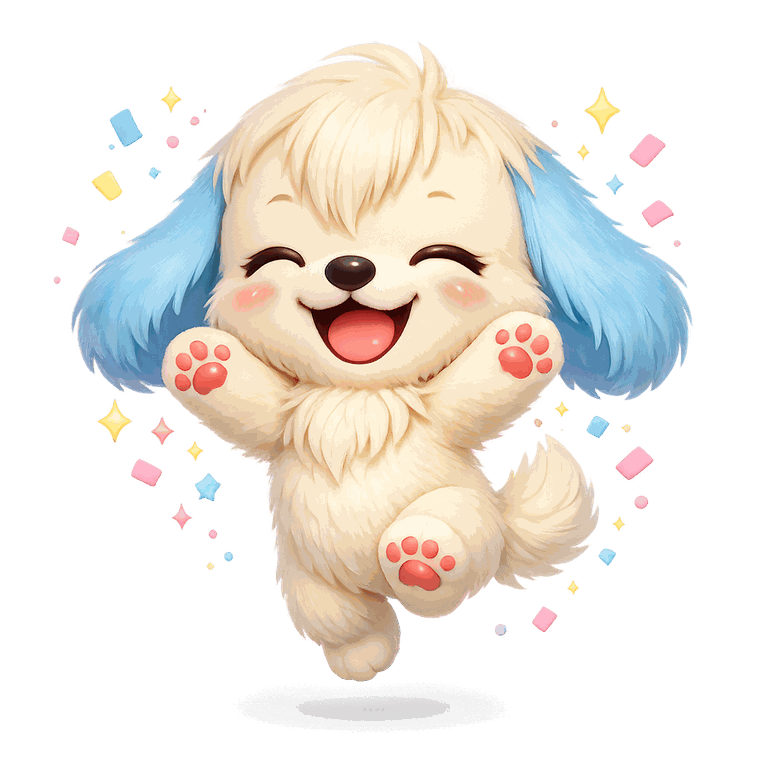
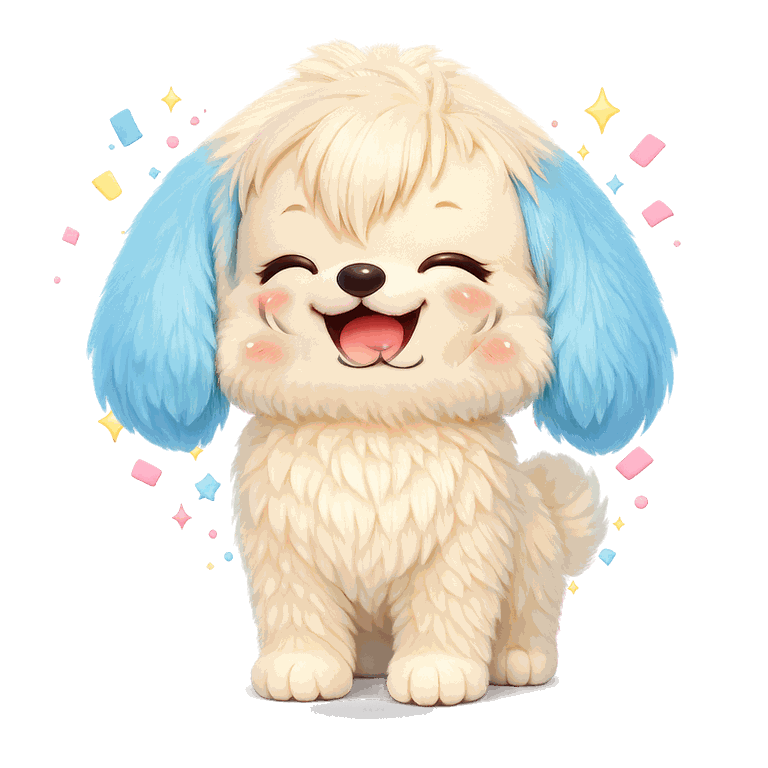
รอบ 762: ปรับภาพน้องตอนดีใจใหม่ให้แขนขาเนียน (cat/dog baby+adult) ด้วย tools/happylab.py

Changed region(s): [[0.0938, 0.0312, 0.9062, 0.9375]]

diff --git a/js/data/wear.js b/js/data/wear.js
@@ -35,21 +35,21 @@ const WEAR_PIECE = {
 };
 const WEAR_ANCHOR = {
   cat_adult_fat:{ex:0.4697,ey:0.3654,ed:0.3366,ht:0.1211},
-  cat_adult_happy:{ex:0.4917,ey:0.5112,ed:0.3355,ht:0.1016},
+  cat_adult_happy:{ex:0.4349,ey:0.3822,ed:0.1953,ht:0.1276},
   cat_adult_hungry:{ex:0.4696,ey:0.3692,ed:0.3022,ht:0.1172},
   cat_adult_sick:{ex:0.447,ey:0.3876,ed:0.3039,ht:0.0638},
   cat_adult_strong:{ex:0.4571,ey:0.3067,ed:0.2082,ht:0.1146},
   cat_adult_thin:{ex:0.4137,ey:0.3822,ed:0.2082,ht:0.1237},
-  cat_baby_happy:{ex:0.4684,ey:0.3332,ed:0.2272,ht:0.1211},
+  cat_baby_happy:{ex:0.4535,ey:0.4408,ed:0.2723,ht:0.1146},
   cat_baby_hungry:{ex:0.4583,ey:0.4085,ed:0.2177,ht:0.1419},
   cat_baby_sick:{ex:0.4746,ey:0.4878,ed:0.2781,ht:0.0664},
   dog_adult_fat:{ex:0.4921,ey:0.3566,ed:0.2277,ht:0.1224},
-  dog_adult_happy:{ex:0.4686,ey:0.3354,ed:0.2336,ht:0.0534},
+  dog_adult_happy:{ex:0.4822,ey:0.3451,ed:0.2233,ht:0.0495},
   dog_adult_hungry:{ex:0.4709,ey:0.3947,ed:0.2348,ht:0.056},
   dog_adult_sick:{ex:0.4713,ey:0.4126,ed:0.2033,ht:0.0755},
   dog_adult_strong:{ex:0.4747,ey:0.2931,ed:0.2105,ht:0.1042},
   dog_adult_thin:{ex:0.4572,ey:0.3744,ed:0.2307,ht:0.082},
-  dog_baby_happy:{ex:0.4839,ey:0.3717,ed:0.2085,ht:0.1445},
+  dog_baby_happy:{ex:0.4955,ey:0.3893,ed:0.2355,ht:0.1224},
   dog_baby_hungry:{ex:0.4812,ey:0.4012,ed:0.2022,ht:0.1276},
   dog_baby_sick:{ex:0.488,ey:0.4533,ed:0.1983,ht:0.1146},
   dragon_adult_fat:{ex:0.443,ey:0.3599,ed:0.2194,ht:0.0833},

diff --git a/sw.js b/sw.js
@@ -6,7 +6,7 @@
    - คำขอข้ามโดเมน (Firebase/Google login/gstatic): ปล่อยผ่าน ไม่ยุ่ง
    อัปเดตเวอร์ชัน: เปลี่ยน CACHE_VERSION แล้ว SW เก่าจะถูกล้างตอน activate
 */
-const CACHE_VERSION = 'pet-vocab-v207';  // v207: รอบ 759: ไอคอนโหลดครบ
+const CACHE_VERSION = 'pet-vocab-v208';  // v208: รอบ 762: ภาพน้องตอนดีใจใหม่ แขนขาเนียน
 
 /* app shell — โครงหลักที่ต้องมีเพื่อเปิดเกมได้แม้ออฟไลน์ */
 const SHELL = [

diff --git a/tools/happylab.py b/tools/happylab.py
@@ -1,0 +1,133 @@
+#!/usr/bin/env python3
+# -*- coding: utf-8 -*-
+"""
+happylab.py — ประกอบภาพ `img/<pet>_<stage>_happy.png` ใหม่ให้ "แขนขาเนียน" (รอบ 758)
+
+ปัญหาเดิม: ภาพ _happy ที่ AI เจนมาเป็นท่ากระโดดชูแขน แต่ **แขน/ขาวาดไม่จบ** —
+  ขาหลังที่ยกขึ้นเป็นก้อนเบลอไม่มีข้อต่อ · มีอุ้งเท้าลอยกลางพุงอ่านไม่ออกว่าเป็นขาไหน ·
+  ขาที่ยืนเป็นแท่งไม่มีนิ้ว (เป็นเหมือนกันทั้ง cat/dog ทั้ง baby/adult)
+
+วิธีแก้ (ไม่ต้องเจนภาพใหม่ ไม่เพี้ยนสไตล์ เพราะใช้ชิ้นส่วนจาก "ภาพชุดเดียวกัน"):
+  ลำตัว+ขา  ← `<pet>_<stage>_normal.png`  (ท่ายืน วาดครบทุกขา เนียนอยู่แล้ว)
+  หน้ายิ้ม   ← `<pet>_<stage>_happy.png`   ตัดเฉพาะ "วงหน้า" (ตาหลิ่ว+ยิ้มกว้าง+แก้มแดง)
+  ประกาย/หัวใจรอบตัว ← จากภาพ _happy เดิม (แยกอัตโนมัติ = ทุกก้อนที่ไม่ใช่ตัวสัตว์)
+
+🔑 บทเรียนตอนทำ (อย่าถอยกลับไปทำแบบเดิม):
+  - เคยลอง "ยกทั้งหัว" มาแปะ → ขนคาง/แก้มของท่ากระโดดกางกว้างกว่าคอของท่ายืน
+    เลยเห็นเป็น "จานขาว" รอบคอทุกใบ · เปลี่ยนมาสลับเฉพาะวงหน้า (เก็บเส้นรอบหัว/คางของ
+    ภาพ normal ไว้) แล้วจบ ไม่ต้อง feather/lock อะไรเพิ่มเลย
+  - หมุดที่ใช้วางหน้า = **จมูก** (ไม่ใช่ยอดหัว/กึ่งกลางหู) เพราะเป็นจุดกลางหน้าที่ตรงกันทั้งสองท่า
+  - สเกล = อัตราส่วน "รัศมีวงหน้า" ของ normal ต่อ happy (คุมด้วย n_ell/h_ell)
+  - อ่านต้นฉบับจาก `img/originals/` (1024px RGBA) แล้วค่อยย่อ 768 + quantize 256 สี
+    → คมกว่าอ่านจาก img/ ที่ลดสีไปแล้ว · **พิกัดใน CFG เป็นระบบ 768** (ย่อก่อนคำนวณ)
+
+ใช้:  python tools/happylab.py            # เขียนทับ img/<pet>_<stage>_happy.png ทั้ง 4 ใบ
+      python tools/happylab.py --preview  # เขียนลง _happylab/ ไว้ดูก่อน ไม่แตะ img/
+หลังรัน: ต้องอัปเดตหมุดชุดด้วย  python tools/wearlab.py eyes && python tools/wearlab.py cut
+"""
+import os
+import sys
+import numpy as np
+from PIL import Image
+from scipy import ndimage
+
+ROOT = os.path.dirname(os.path.dirname(os.path.abspath(__file__)))
+IMG = os.path.join(ROOT, 'img')
+ORIG = os.path.join(IMG, 'originals')
+PREVIEW = os.path.join(ROOT, '_happylab')
+SIZE = 768
+
+# วงหน้า = (cx, cy, rx, ry) ยึด "จมูก" เป็นศูนย์กลาง · h_cut = ตัดใต้คาง (พิกัดภาพ 768)
+CFG = {
+    'cat_adult': dict(h_ell=(368, 250, 140, 138), h_cut=344, n_ell=(338, 320, 158, 156),
+                      erase=[(196, 330, 85, 90), (566, 305, 82, 88)]),
+    'cat_baby':  dict(h_ell=(388, 265, 145, 130), h_cut=330, n_ell=(382, 350, 175, 157),
+                      erase=[(190, 345, 74, 82), (528, 345, 72, 82)]),
+    # หมา: หูฟ้าห้อยยาว ตัดวงหน้าให้อยู่ในขนครีมล้วน หูเดิมของภาพ normal อยู่ต่อได้เลย
+    'dog_adult': dict(h_ell=(380, 205, 175, 170), h_cut=352, n_ell=(390, 215, 168, 180),
+                      erase=[(212, 355, 58, 52), (528, 352, 58, 52)]),
+    'dog_baby':  dict(h_ell=(378, 262, 152, 138), h_cut=395, n_ell=(388, 272, 172, 158),
+                      erase=[(232, 362, 58, 48), (518, 365, 55, 48)]),
+}
+FEATHER = 30          # ความนุ่มของขอบวงหน้า (px)
+
+
+def load(name):
+    """ต้นฉบับ 1024px ถ้ามี (คมกว่า) ย่อลงระบบพิกัด 768"""
+    p = os.path.join(ORIG, name + '.png')
+    if not os.path.exists(p):
+        p = os.path.join(IMG, name + '.png')
+    im = Image.open(p).convert('RGBA')
+    return im if im.size == (SIZE, SIZE) else im.resize((SIZE, SIZE), Image.LANCZOS)
+
+
+def parts(im):
+    """แยก 'ตัวสัตว์' (ก้อนใหญ่สุด) ออกจาก 'ประกาย/หัวใจ' ที่ลอยรอบ ๆ"""
+    a = np.array(im)[:, :, 3] > 40
+    lab, n = ndimage.label(a)
+    if n == 0:
+        return im, Image.new('RGBA', im.size)
+    sizes = ndimage.sum(a, lab, range(1, n + 1))
+    big = int(np.argmax(sizes)) + 1
+    arr = np.array(im)
+    body = arr.copy(); body[:, :, 3] = np.where(lab == big, arr[:, :, 3], 0)
+    spark = arr.copy(); spark[:, :, 3] = np.where(a & (lab != big), arr[:, :, 3], 0)
+    return Image.fromarray(body), Image.fromarray(spark)
+
+
+def alpha_mul(im, m):
+    arr = np.array(im).astype(np.float32)
+    arr[:, :, 3] *= m
+    return Image.fromarray(arr.astype(np.uint8))
+
+
+def m_ell(size, e, feather):
+    cx, cy, rx, ry = e
+    yy, xx = np.mgrid[0:size[1], 0:size[0]]
+    d = np.sqrt(((xx - cx) / float(rx)) ** 2 + ((yy - cy) / float(ry)) ** 2)
+    return np.clip((1 - d) * (min(rx, ry) / float(feather)) + .5, 0, 1).astype(np.float32)
+
+
+def m_above(size, ycut, feather):
+    yy, _ = np.mgrid[0:size[1], 0:size[0]]
+    return np.clip((ycut - yy) / float(feather) + .5, 0, 1).astype(np.float32)
+
+
+def build(pet, cfg):
+    hap, nor = load(pet + '_happy'), load(pet + '_normal')
+    hbody, spark = parts(hap)
+    nbody, _ = parts(nor)
+
+    for e in cfg.get('erase', []):                       # ลบอุ้งเท้าที่ยกบังแก้มอยู่
+        hbody = alpha_mul(hbody, 1 - m_ell(hbody.size, e, 22))
+
+    m = m_ell(hbody.size, cfg['h_ell'], FEATHER)
+    m = np.minimum(m, m_above(hbody.size, cfg['h_cut'], FEATHER))
+    face = alpha_mul(hbody, m)
+
+    s = cfg['n_ell'][2] / float(cfg['h_ell'][2])
+    face = face.resize((int(SIZE * s), int(SIZE * s)), Image.LANCZOS)
+    dx = int(round(cfg['n_ell'][0] - cfg['h_ell'][0] * s))
+    dy = int(round(cfg['n_ell'][1] - cfg['h_ell'][1] * s))
+
+    out = Image.new('RGBA', (SIZE, SIZE), (0, 0, 0, 0))
+    out.alpha_composite(spark)                           # ประกายอยู่หลังสุด
+    out.alpha_composite(nbody)                           # ลำตัว+ขาท่ายืน
+    lay = Image.new('RGBA', (SIZE, SIZE), (0, 0, 0, 0)); lay.paste(face, (dx, dy))
+    out.alpha_composite(lay)                             # หน้ายิ้มทับลงบนหน้าเดิม
+    return out
+
+
+def main():
+    preview = '--preview' in sys.argv
+    dest = PREVIEW if preview else IMG
+    os.makedirs(dest, exist_ok=True)
+    for pet, cfg in CFG.items():
+        im = build(pet, cfg)
+        p = os.path.join(dest, f'{pet}_happy.png')
+        im.quantize(colors=256, method=Image.FASTOCTREE).save(p, optimize=True)
+        print(f'  {"(preview) " if preview else ""}{p}  {os.path.getsize(p)//1024} KB')
+
+
+if __name__ == '__main__':
+    main()

diff --git a/tools/wearlab.py b/tools/wearlab.py
@@ -144,7 +144,11 @@ def all_keys():
 
 
 EYES_JSON = os.path.join(SCRATCH, 'eyes.json')
-MANUAL = {}   # ใส่ override มือได้: 'cat_adult_fat': [x1,y1,x2,y2]
+MANUAL = {    # ใส่ override มือได้: 'cat_adult_fat': [x1,y1,x2,y2]
+    # รอบ 758: หน้ายิ้มใหม่จาก happylab.py ตาหลิ่วเป็นเส้นโค้งบาง (กว้าง/สูง = 3.5) เกินเพดาน 3.4
+    # ของ detect_eyes เลยหาไม่เจอ — วัดจากก้อนสีเข้มในภาพจริงมาใส่ตรง ๆ
+    'cat_adult_happy': [259, 298, 409, 289],
+}
 
 
 def cmd_eyes():
